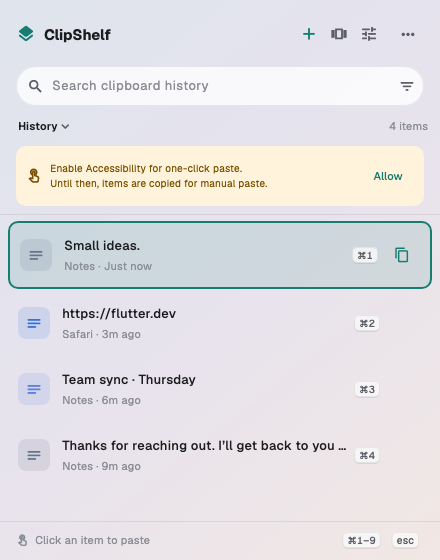
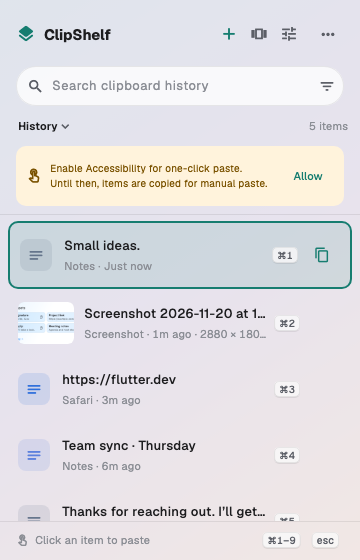
Narrow the menu-bar panel to 360 pt; fill out image rows
- The menu-bar panel is 360 pt wide instead of 440, closer to native
  menu-bar panels. The floating panel keeps its own resizable size.
- Image rows show the thumbnail where other rows show a type icon, with
  the title and "App · time · W × H" beside it, instead of a lone
  thumbnail and empty space.
- Preferences fits the narrow panel: the dialog uses nearly the full
  width, and Allow access moves under its description when narrow.
- Menu-bar tests and the preview render at 360 pt; preview data gains
  a screenshot, and the preview tool waits for images to decode.

diff --git a/lib/features/clipboard/presentation/widgets/quick_item_row.dart b/lib/features/clipboard/presentation/widgets/quick_item_row.dart
@@ -65,61 +65,68 @@ class QuickItemRow extends StatelessWidget {
               padding: const EdgeInsets.fromLTRB(10, 8, 4, 8),
               child: Row(
                 children: [
-                  Container(
-                    width: 32,
-                    height: 32,
-                    decoration: BoxDecoration(
-                      color: tint.withValues(alpha: 0.14),
-                      borderRadius: BorderRadius.circular(ShelfRadius.sm),
+                  // Images show their thumbnail where other rows show a
+                  // type icon, so the text beside it can describe them.
+                  if (item.preview != null)
+                    ClipRRect(
+                      borderRadius: BorderRadius.circular(6),
+                      child: Container(
+                        width: 56,
+                        height: 42,
+                        color: colors.surfaceHover,
+                        child: Image.memory(
+                          item.preview!,
+                          fit: BoxFit.cover,
+                          gaplessPlayback: true,
+                          errorBuilder: (_, error, stack) =>
+                              Icon(clipIcon(item), size: 17, color: tint),
+                        ),
+                      ),
+                    )
+                  else
+                    Container(
+                      width: 32,
+                      height: 32,
+                      decoration: BoxDecoration(
+                        color: tint.withValues(alpha: 0.14),
+                        borderRadius: BorderRadius.circular(ShelfRadius.sm),
+                      ),
+                      child: Icon(clipIcon(item), size: 17, color: tint),
                     ),
-                    child: Icon(clipIcon(item), size: 17, color: tint),
-                  ),
-                  const SizedBox(width: 12),
+                  SizedBox(width: item.preview != null ? 10 : 12),
                   Expanded(
-                    child: item.preview != null
-                        ? Align(
-                            alignment: Alignment.centerLeft,
-                            child: ClipRRect(
-                              borderRadius: BorderRadius.circular(6),
-                              child: Image.memory(
-                                item.preview!,
-                                width: 96,
-                                height: 46,
-                                fit: BoxFit.cover,
-                                errorBuilder: (_, error, stack) => Text(
-                                  item.title,
-                                  maxLines: 2,
-                                  overflow: TextOverflow.ellipsis,
-                                ),
-                              ),
-                            ),
-                          )
-                        : Column(
-                            crossAxisAlignment: CrossAxisAlignment.start,
-                            mainAxisAlignment: MainAxisAlignment.center,
-                            children: [
-                              Text(
-                                item.title.replaceAll('\n', ' '),
-                                maxLines: 1,
-                                overflow: TextOverflow.ellipsis,
-                                style: TextStyle(
-                                  fontSize: ShelfType.body,
-                                  fontWeight: FontWeight.w500,
-                                  color: colors.textPrimary,
-                                ),
-                              ),
-                              const SizedBox(height: 3),
-                              Text(
-                                '${item.source} · ${formatClipAge(item.date)}',
-                                maxLines: 1,
-                                overflow: TextOverflow.ellipsis,
-                                style: TextStyle(
-                                  fontSize: ShelfType.caption,
-                                  color: colors.textTertiary,
-                                ),
-                              ),
-                            ],
+                    child: Column(
+                      crossAxisAlignment: CrossAxisAlignment.start,
+                      mainAxisAlignment: MainAxisAlignment.center,
+                      children: [
+                        Text(
+                          item.title.replaceAll('\n', ' '),
+                          maxLines: 1,
+                          overflow: TextOverflow.ellipsis,
+                          style: TextStyle(
+                            fontSize: ShelfType.body,
+                            fontWeight: FontWeight.w500,
+                            color: colors.textPrimary,
                           ),
+                        ),
+                        const SizedBox(height: 3),
+                        Text(
+                          [
+                            item.source,
+                            formatClipAge(item.date),
+                            if (item.pixelWidth > 0)
+                              '${item.pixelWidth} × ${item.pixelHeight}',
+                          ].join(' · '),
+                          maxLines: 1,
+                          overflow: TextOverflow.ellipsis,
+                          style: TextStyle(
+                            fontSize: ShelfType.caption,
+                            color: colors.textTertiary,
+                            fontFeatures: ShelfType.tabular,
+                          ),
+                        ),
+                      ],
+                    ),
                   ),
                   if (index < 9)
                     Padding(

diff --git a/tool/preview_test.dart b/tool/preview_test.dart
@@ -46,8 +46,10 @@ void main() {
     const preferencesPreview = bool.fromEnvironment('PREFERENCES_PREVIEW');
     tester.view.physicalSize = preferencesPreview
         ? const Size(760, 640)
+        : floatingPreview
+        ? const Size(440, 560) // floating panel default
         : quickPreview
-        ? const Size(440, 560)
+        ? const Size(360, 560) // menu-bar panel
         : const Size(1280, 430);
     tester.view.devicePixelRatio = 1;
     final now = DateTime.now().millisecondsSinceEpoch / 1000;
@@ -62,21 +64,43 @@ void main() {
           clipboardChannel,
           (call) async => call.method == 'state'
               ? {
-                  'clips': [
-                    for (var i = 0; i < texts.length; i++)
+                  // The screenshot goes second so a full image row shows.
+                  'clips': () {
+                    final clips = [
+                      for (var i = 0; i < texts.length; i++)
+                        {
+                          'id': '$i',
+                          'title': texts[i].split('\n').first,
+                          'text': texts[i],
+                          'kind': 'text',
+                          'source': i == 1 ? 'Safari' : 'Notes',
+                          'snippet': false,
+                          'date': now - i * 180,
+                          'size': texts[i].length,
+                          'formats': ['public.utf8-plain-text'],
+                          'boardID': i == 2 ? 'work' : '',
+                        },
+                      // A screenshot, to show image cards and rows.
                       {
-                        'id': '$i',
-                        'title': texts[i].split('\n').first,
-                        'text': texts[i],
-                        'kind': 'text',
-                        'source': i == 1 ? 'Safari' : 'Notes',
+                        'id': 'shot',
+                        'title': 'Screenshot 2026-11-20 at 10.42.png',
+                        'text': '',
+                        'kind': 'image',
+                        'source': 'Screenshot',
                         'snippet': false,
-                        'date': now - i * 180,
-                        'size': texts[i].length,
-                        'formats': ['public.utf8-plain-text'],
-                        'boardID': i == 2 ? 'work' : '',
+                        'date': now - 90,
+                        'size': 1,
+                        'formats': ['public.png'],
+                        'boardID': '',
+                        'preview': File('widget-medium-text-preview.png')
+                            .readAsBytesSync(),
+                        'pixelWidth': 2880,
+                        'pixelHeight': 1800,
                       },
-                  ],
+                    ];
+                    clips.insert(1, clips.removeLast());
+                    return clips;
+                  }(),
                   'boards': [
                     {'id': 'work', 'name': 'Work', 'color': 0},
                     {'id': 'ideas', 'name': 'Ideas', 'color': 2},
@@ -132,6 +156,13 @@ void main() {
         ),
       ),
     );
+    await tester.pumpAndSettle();
+    // Image.memory decodes asynchronously; finish decoding before rendering.
+    await tester.runAsync(() async {
+      for (final element in find.byType(Image).evaluate()) {
+        await precacheImage((element.widget as Image).image, element);
+      }
+    });
     await tester.pumpAndSettle();
     // Search open with suggestions, rendered into build/ for review.
     if (const bool.fromEnvironment('SEARCH_PREVIEW')) {

diff --git a/test/widget_test.dart b/test/widget_test.dart
@@ -1,3 +1,5 @@
+import 'dart:convert';
+
 import 'package:clipshelf/app/app.dart';
 import 'package:clipshelf/features/clipboard/application/library_view_controller.dart';
 import 'package:clipshelf/features/clipboard/domain/clipboard_item.dart';
@@ -418,6 +420,42 @@ void main() {
       Clip.hardEdge,
     );
   });
+  testWidgets('Menu-bar image rows show a thumbnail with app, time and size', (
+    tester,
+  ) async {
+    presentation = 'quick';
+    await load(tester);
+    // A 1×1 PNG stands in for the screenshot thumbnail.
+    final png = base64Decode(
[1 lines of base64/hex data omitted]
+    );
+    currentState = {
+      ...currentState,
+      'clips': [
+        {
+          ...clip('img', 'Screenshot 2026-11-20.png'),
+          'kind': 'image',
+          'text': '',
+          'source': 'Screenshot',
+          'preview': png,
+          'pixelWidth': 2880,
+          'pixelHeight': 1800,
+        },
+        ...currentState['clips'] as List,
+      ],
+    };
+    tester.binding.channelBuffers.push(
+      clipboardChannel.name,
+      const StandardMethodCodec().encodeMethodCall(
+        MethodCall('changed', currentState),
+      ),
+      (_) {},
+    );
+    await tester.pumpAndSettle();
+    expect(find.text('Screenshot 2026-11-20.png'), findsOneWidget);
+    expect(find.textContaining('Screenshot · '), findsOneWidget);
+    expect(find.textContaining('2880 × 1800'), findsOneWidget);
+  });
   testWidgets('Menu-bar panel opens the snippet editor in one click', (
     tester,
   ) async {
@@ -472,7 +510,7 @@ void main() {
   ) async {
     presentation = 'quick';
     await load(tester);
-    tester.view.physicalSize = const Size(440, 560);
+    tester.view.physicalSize = const Size(360, 560);
     await tester.pumpAndSettle();
     expect(find.text('Click an item to paste'), findsOneWidget);
     expect(find.textContaining('Enable Accessibility'), findsOneWidget);
@@ -488,7 +526,7 @@ void main() {
   ) async {
     presentation = 'quick';
     await load(tester);
-    tester.view.physicalSize = const Size(440, 560);
+    tester.view.physicalSize = const Size(360, 560);
     await tester.pumpAndSettle();
     await tester.tap(find.byTooltip('Copy to clipboard').first);
     await tester.pumpAndSettle();
@@ -509,7 +547,7 @@ void main() {
     (tester) async {
       presentation = 'quick';
       await load(tester);
-      tester.view.physicalSize = const Size(440, 560);
+      tester.view.physicalSize = const Size(360, 560);
       await tester.pumpAndSettle();
       await tester.tap(
         find.byKey(const ValueKey('quick-item-a')),
@@ -544,7 +582,7 @@ void main() {
     (tester) async {
       presentation = 'quick';
       await load(tester);
-      tester.view.physicalSize = const Size(440, 560);
+      tester.view.physicalSize = const Size(360, 560);
       await tester.pumpAndSettle();
       expect(
         find.textContaining('Enable Accessibility for one-click paste.'),

diff --git a/lib/features/settings/presentation/settings_view.dart b/lib/features/settings/presentation/settings_view.dart
@@ -22,6 +22,13 @@ class SettingsView extends ConsumerWidget {
     final syncStatus = sync.message;
     final syncConfigured = sync.configured;
     final subtitle = settingsSubtitleStyle(context);
+    final narrow = MediaQuery.sizeOf(context).width < 520;
+    final allowButton = FilledButton(
+      onPressed: () async {
+        await actions.requestAccessibility();
+      },
+      child: const Text('Allow access'),
+    );
     return ListView(
       padding: const EdgeInsets.only(right: 4),
       children: [
@@ -132,9 +139,20 @@ class SettingsView extends ConsumerWidget {
                     ? 'Accessibility is enabled'
                     : 'Allow direct paste',
               ),
-              subtitle: Text(
-                'Manage access in System Settings → Privacy & Security.',
-                style: subtitle,
+              // Narrow windows put the button under the text, not beside it.
+              subtitle: Column(
+                crossAxisAlignment: CrossAxisAlignment.start,
+                children: [
+                  Text(
+                    'Manage access in System Settings → Privacy & Security.',
+                    style: subtitle,
+                  ),
+                  if (narrow && !accessibility)
+                    Padding(
+                      padding: const EdgeInsets.only(top: 8, bottom: 4),
+                      child: allowButton,
+                    ),
+                ],
               ),
               trailing: accessibility
                   ? Icon(
@@ -142,12 +160,9 @@ class SettingsView extends ConsumerWidget {
                       color: colors.accentText,
                       semanticLabel: 'Accessibility enabled',
                     )
-                  : FilledButton(
-                      onPressed: () async {
-                        await actions.requestAccessibility();
-                      },
-                      child: const Text('Allow access'),
-                    ),
+                  : narrow
+                  ? null
+                  : allowButton,
             ),
           ],
         ),

diff --git a/native_tests/main.swift b/native_tests/main.swift
@@ -154,7 +154,7 @@ _ = invoke(pinBridge, "clear")
 check(pinBridge.archive.versions?["clip-evicted"]?.deleted == true, "clear history also deletes known evicted cloud items")
 let firstScreen = NSRect(x:0,y:0,width:1440,height:876)
 let rightFrame = ClipboardBridge.quickFrame(anchor:NSRect(x:1420,y:876,width:20,height:24),visible:firstScreen)
-check(firstScreen.contains(rightFrame) && rightFrame.width == 440, "menu-bar panel stays inside right screen edge")
+check(firstScreen.contains(rightFrame) && rightFrame.width == 360, "menu-bar panel stays inside right screen edge at 360 pt")
 let leftScreen = NSRect(x:-1280,y:100,width:1280,height:700)
 let leftFrame = ClipboardBridge.quickFrame(anchor:NSRect(x:-1280,y:800,width:22,height:24),visible:leftScreen)
 check(leftScreen.contains(leftFrame), "menu-bar panel supports displays with negative coordinates")

diff --git a/lib/features/settings/presentation/preferences_dialog.dart b/lib/features/settings/presentation/preferences_dialog.dart
@@ -10,8 +10,13 @@ class PreferencesDialog extends StatelessWidget {
   @override
   Widget build(BuildContext context) {
     final colors = context.shelf;
+    // In the narrow menu-bar panel, use nearly the whole width.
+    final narrow = MediaQuery.sizeOf(context).width < 520;
     return Dialog(
       clipBehavior: Clip.antiAlias,
+      insetPadding: narrow
+          ? const EdgeInsets.symmetric(horizontal: 10, vertical: 16)
+          : const EdgeInsets.symmetric(horizontal: 40, vertical: 24),
       child: SizedBox(
         width: 640,
         height: 560,

diff --git a/macos/Runner/MainFlutterWindow.swift b/macos/Runner/MainFlutterWindow.swift
@@ -433,7 +433,7 @@ final class ClipboardBridge: NSObject {
     showQuick()
   }
   static func quickFrame(anchor: NSRect, visible: NSRect) -> NSRect {
-    let width = min(440, visible.width - 16)
+    let width = min(360, visible.width - 16)  // menu-bar panel width
     let height = min(560, visible.height - 16)
     let x = min(max(anchor.midX - width / 2, visible.minX + 8), visible.maxX - width - 8)
     let y = max(visible.minY + 8, min(anchor.minY - height - 8, visible.maxY - height - 8))
